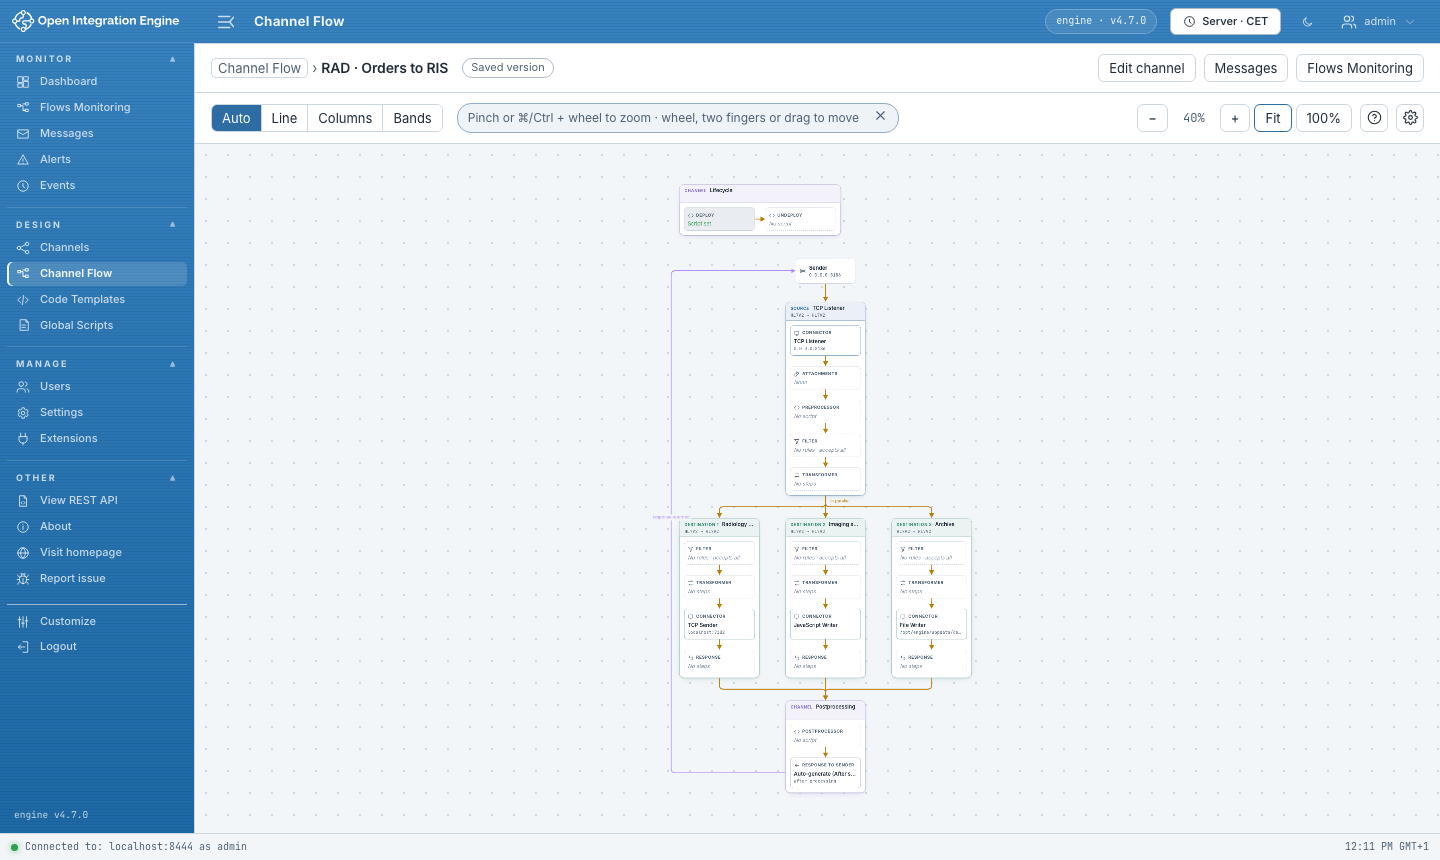
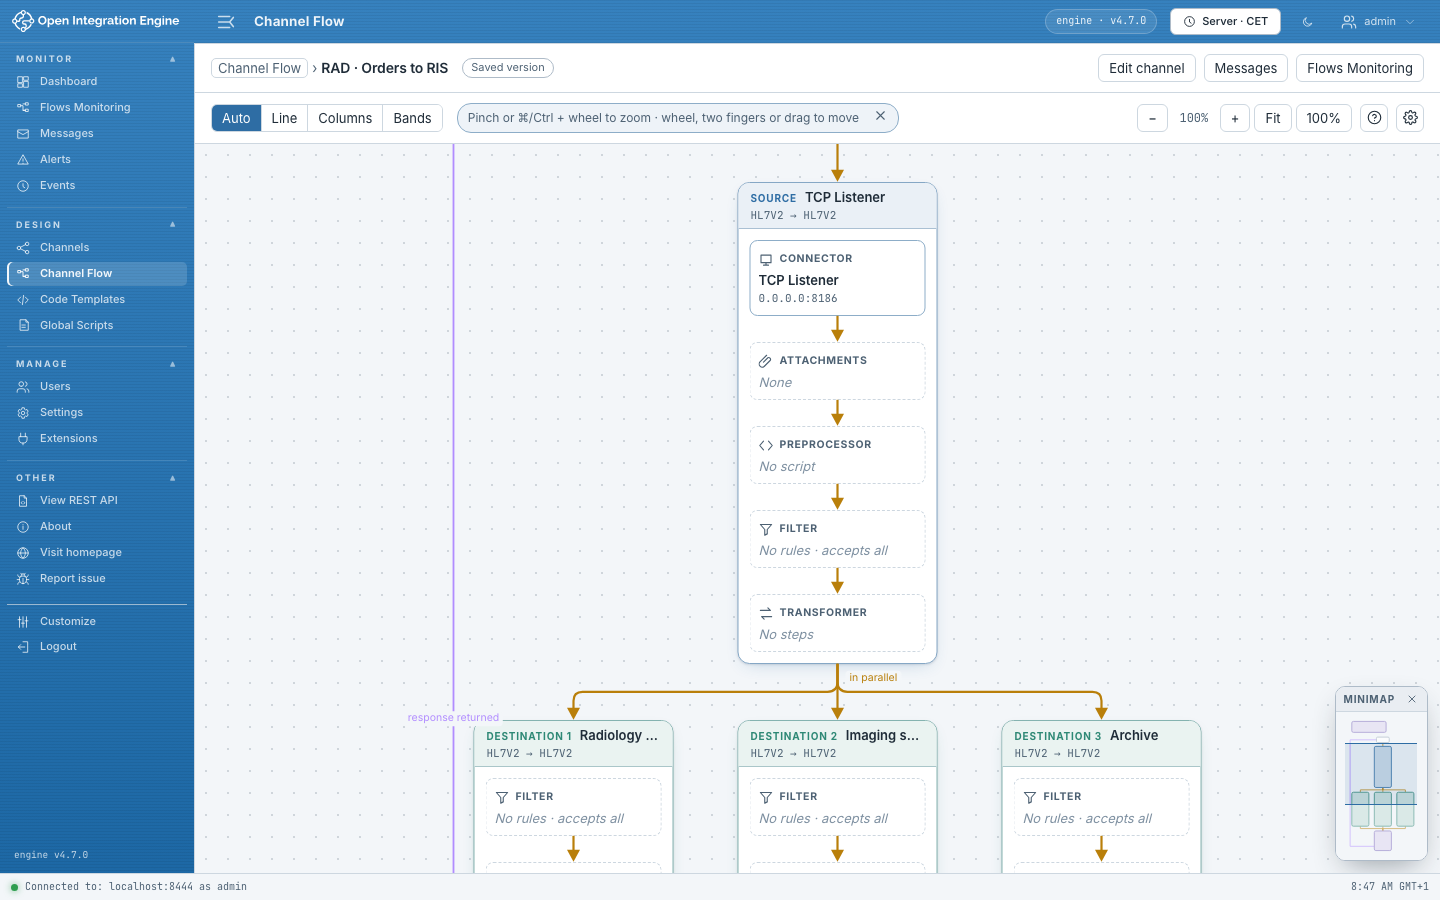
docs: add in-development status, sync docs, and refresh screenshots

diff --git a/doc/plan.md b/doc/plan.md
@@ -18,7 +18,7 @@ Cible : OIE 4.7.0, Web Support 1.3.0 (Web Admin 1.3.0, API plugin 4.10), RBAC 1.
 | Phase | État |
 |---|---|
 | 0. Socle et vérifications | Fait : build esbuild, ZIP sans Java accepté (WS-01), menus et droits vérifiés |
-| 1. Démo | Fait : initialisation REST `oie-init/` (12 canaux en 4 groupes), trafic continu automatique `traffic`, `examples/send.sh` |
+| 1. Démo | Fait : initialisation REST `oie-init/` (12 canaux en 4 groupes), générateur continu automatique `message-gun`, `examples/send.sh` |
 | 2. Fondations partagées | Fait : `host/`, i18n, jetons, contrôles, réglages, état de session |
 | 3. Flows Monitoring | Fait, vérifié dans la démo avec les comptes RBAC ; ajouts : liens entre canaux (*Links*), tags colorés, démarrer / pause / arrêt des canaux et connecteurs |
 | 4. Channel Flow, schéma | Fait : trois vues calculées, sélecteur avec groupes et tags, action *Show flow* |
@@ -123,11 +123,11 @@ oie-flow-ui-plugin/
       session.js            état des vues pour la session (sessionStorage)
       styles.js             injection unique des feuilles
     i18n/
-      index.js              t(key, params), pluriels, nombres, heures
-      locales/en.js         catalogue anglais (référence)
+      index.js              t(key, params), pluriels, nombres, heures, préférence de langue
+      locales/en.js, fr.js  catalogues anglais (référence) et français
     shared/
       model/                xstream.js, chains.js, stats.js, endpoint.js, tags.js
-      ui/                   Button, Icon, Popover (+ place.js), Hint, EmptyState, Tag, useSettings
+      ui/                   Button, Icon, Popover (+ place.js), Hint, EmptyState, Tag, useLocale, useSettings
       styles/               tokens.css (couleurs), controls.css (contrôles communs)
     settings/
       SettingsButton.jsx    engrenage de chaque écran et panneau Manage › Settings › Flow UI
@@ -192,13 +192,16 @@ oie-flow-ui-plugin/
 
 ### 3.4 Internationalisation
 
-- UI en anglais ; toute chaîne visible passe par `t("flows.counter.errored")`.
-  Clés hiérarchiques par écran, paramètres nommés (`{count}`, `{name}`), pluriels par
-  `Intl.PluralRules`, nombres et heures par `Intl`.
-- Langue : préférence du plugin si définie, sinon `navigator.languages`, sinon `en`.
-  Repli clé par clé sur l'anglais.
-- Tests : catalogue complet par rapport à `en`, clés inutilisées, paramètres cohérents.
-  Ajouter une langue = ajouter `locales/<code>.js` (documenté dans `doc/i18n.md`).
+- UI en anglais et en français ; toute chaîne visible passe par
+  `t("flows.counter.errored")`. Clés hiérarchiques par écran, paramètres nommés
+  (`{count}`, `{name}`), pluriels par `Intl.PluralRules`, nombres et heures par `Intl`.
+- Langue : choix utilisateur dans **Manage › Settings › Flow UI** (*Interface ›
+  Language*) ou depuis le bouton ⚙ (*Browser language*, *English*, *Français*),
+  mémorisé dans le navigateur (`localStorage`) et appliqué aussitôt ; à défaut
+  (`auto`), `navigator.languages`, sinon `en`. Repli clé par clé sur l'anglais.
+- Tests : parité des clés et paramètres entre catalogues par rapport à `en`, clés
+  utilisées présentes dans `en`, persistance `localStorage`. Ajouter une langue =
+  ajouter `locales/<code>.js` (documenté dans `doc/i18n.md`).
 
 ### 3.5 Droits (RBAC)
 
@@ -392,7 +395,7 @@ puis rejouer les messages initiaux (`messages.txt`).
 | `oie-db` | PostgreSQL 18 (`postgres:18.3-alpine`) |
 | `oie-app` | OIE 4.7.0 + Web Support 1.3.0 + RBAC 1.3.0 (archives vérifiées par SHA-256) + Flow UI construit dans un étage Node ; `SERVER_ID` fixe |
 | `oie-init` | Image curl : exécute `oie-init/init-channels.sh` une fois `oie-app` sain |
-| `traffic` | Démarre automatiquement dès la fin de `oie-init` : image curl, boucle pondérée (`examples/traffic.sh`, 0,2 s par défaut) qui alimente les compteurs |
+| `message-gun` | Démarre automatiquement dès la fin de `oie-init` : image curl, boucle pondérée (`examples/message-gun.sh`, 0,2 s par défaut) qui alimente les compteurs |
 
 Port d'administration par défaut **8444** et ports d'exemple **8181-8199** (le mapper
 utilise 8443 et 8081-8099), tous réglables dans `.env`. Projet compose
@@ -415,7 +418,7 @@ demo/
       messages.txt          plan des messages initiaux et du trafic continu
       messages/             messages joués ({{n}} : numéro, {{ts}} : horodatage)
   examples/
-    traffic.sh              trafic continu automatique après oie-init
+    message-gun.sh          envoi continu automatique après oie-init
     send.sh                 envoie un message vers un listener (MLLP par nc, HTTP par curl)
     demo.http               appels REST commentés
 ```
@@ -494,7 +497,7 @@ Chaque phase se termine par une vérification visuelle dans la démo.
 | Phase | Contenu | Terminé quand |
 |---|---|---|
 | **0. Socle et vérifications** | Squelette du dépôt, build esbuild, ZIP sans Java, injection CSS, i18n minimal, deux vues « hello » (Monitor et Design) | Le ZIP s'installe dans OIE 4.7.0 ; les vues apparaissent et respectent RBAC ; les points marqués « à confirmer » sont tranchés (§1) |
-| **1. Démo** | compose, Dockerfile, initialisation REST `oie-init/`, trafic automatique `traffic`, `examples/send.sh` | `docker compose up` donne des compteurs variés et les cinq comptes ; `oie-init` réinitialise l'état |
+| **1. Démo** | compose, Dockerfile, initialisation REST `oie-init/`, générateur automatique `message-gun`, `examples/send.sh` | `docker compose up` donne des compteurs variés et les cinq comptes ; `oie-init` réinitialise l'état |
 | **2. Fondations partagées** | Jetons et contrôles UI, `host/`, `model/chains`, `stats`, permissions, aides (`HelpPopover`, `Tooltip`) | Composants communs testés et utilisés par les deux écrans |
 | **3. Flows Monitoring** | Vue complète (§4) | Parité avec Flows du mapper, sans hack, liens Flow et droits |
 | **4. Channel Flow — schéma** | Modèle, mise en page calculée des trois vues, rendu, vue Design, sélecteur, action Channels | Les canaux d'exemple se lisent correctement dans les trois vues |
@@ -548,6 +551,7 @@ existent.
 | 15 | Forme du chargement | Fichiers XML/texte versionnés dans `demo/oie-init/data/` et importés par API REST (`oie-init/init-channels.sh`) au démarrage, remplaçant l'ancien dump `seed/` + `pg_dump` (§7.1, §7.3) |
 | 16 | Scénario de démo | Plateforme d'intégration hospitalière : 4 groupes, 12 canaux prioritaires avec étapes variées, systèmes externes simulés (§7.4) |
 | 17 | Comptes de démo | `admin`, `lab-viewer`, `ops`, `integrator`, `auditor` (§7.5) |
+| 18 | Choix de la langue | Catalogues `en` et `fr` embarqués ; sélecteur dans **Manage › Settings › Flow UI** et le bouton ⚙ (`auto`, `en`, `fr`), mémorisé dans le navigateur (`localStorage`) sans modifier les réglages serveur (§3.4) |
 
 Le chargement REST exécute les vrais déploiements et envois de messages dans OIE :
 le moteur crée lui-même ses tables de messages et les compteurs pointent vers des

diff --git a/doc/i18n.md b/doc/i18n.md
@@ -1,6 +1,11 @@
 # Traductions
 
-L'interface est en anglais. Tout texte visible passe par `t()` :
+L'interface est fournie en anglais (`en`) et en français (`fr`). Par défaut, elle
+suit les préférences du navigateur (`Browser language`), et l'utilisateur peut
+choisir explicitement la langue dans **Manage › Settings › Flow UI** (*Interface ›
+Language*) ou depuis le bouton **⚙** d'un écran. Ce choix est mémorisé dans ce
+navigateur (`localStorage`), s'applique immédiatement et n'entre pas dans les
+réglages serveur. Tout texte visible passe par `t()` :
 
 ```js
 import { t } from "../i18n/index.js";
@@ -17,7 +22,8 @@ t("flows.group.channels", { count: 3 });     // "3 channels"
   selon la langue (`1,200` ou `1 200`).
 - Une entrée à plusieurs formes (`{ one: "...", other: "..." }`) est choisie avec
   le paramètre `count`, selon les règles de pluriel de la langue (`Intl.PluralRules`).
-- La langue est la première du navigateur qui a un catalogue, sinon l'anglais.
+- La langue suit la préférence locale du navigateur si elle est fixée (`en`, `fr`),
+  sinon la première langue du navigateur qui a un catalogue (`auto`), sinon l'anglais.
   Une clé absente d'une traduction retombe sur l'anglais.
 
 Web Admin n'a pas de mécanisme de traduction (WA-07) : quand il en aura un, Flow UI
@@ -25,20 +31,24 @@ suivra la langue de l'utilisateur.
 
 ## Ajouter une langue
 
-1. Copier `src/i18n/locales/en.js` en `fr.js` (code BCP 47 de la langue) et
-   traduire les valeurs, pas les clés. Les clés non traduites peuvent être
-   supprimées : elles retombent sur l'anglais.
+1. Copier `src/i18n/locales/en.js` (par exemple vers `de.js`, code BCP 47 de la
+   langue) et traduire les valeurs, sans changer les clés. Un test unitaire
+   vérifie que chaque catalogue possède les mêmes clés et paramètres que `en.js`.
 2. Déclarer le catalogue dans `src/i18n/index.js` :
 
    ```js
-   import fr from "./locales/fr.js";
-   const CATALOGS = { en, fr };
+   import de from "./locales/de.js";
+   const CATALOGS = { en, fr, de };
    ```
 
-3. Les formes de pluriel suivent la langue : le français utilise `one` et `other`,
+3. Ajouter l'entrée `settings.language.de` (libellé natif, par exemple `"Deutsch"`)
+   dans `en.js`, `fr.js` et le nouveau catalogue pour qu'elle apparaisse dans le
+   sélecteur de langue.
+4. Les formes de pluriel suivent la langue : le français utilise `one` et `other`,
    d'autres langues `few`, `many`…
-4. `npm test`, `npm run build`, puis vérifier les deux écrans dans la démo : les
-   textes plus longs doivent rester lisibles (titres tronqués avec info-bulle).
+5. `npm test`, `npm run check`, `npm run build`, puis vérifier les deux écrans dans
+   la démo : les textes plus longs doivent rester lisibles (titres tronqués avec
+   info-bulle).
 
 Les noms de statuts (`Received`, `Errored`…) reprennent ceux de Web Admin : les
 garder cohérents avec sa traduction, le jour où elle existera.

diff --git a/README.md b/README.md
@@ -3,6 +3,8 @@
 A plugin for the [Open Integration Engine](https://github.com/OpenIntegrationEngine/engine)
 web administrator that shows how messages move through channels.
 
+> **Status: In development (pre-1.0).**
+>
 > **Pre-1.0 note:** Because Web Admin's plugin API still lacks a few interaction
 > hooks, Flow UI currently relies on minor DOM workarounds (documented in
 > [platform limits](doc/platform-limits.md)). Pull requests to the upstream
@@ -34,7 +36,7 @@ The demo is the integration platform of a hospital: 12 channels in 4 groups,
 messages already processed, a queue and errors.
 
 ```sh
-docker compose stop traffic              # pause continuous message traffic
+docker compose stop message-gun          # pause continuous message traffic
 docker compose up -d oie-init            # restore initial configuration and states
 ```
 

diff --git a/doc/platform-limits.md b/doc/platform-limits.md
@@ -184,7 +184,10 @@ entry remains, with the version that fixes it.
 - **Finding.** Web Admin is entirely in English, with no catalog or language setting.
 - **Evidence.** No trace of i18n in the main bundle (only `Intl` is used for formatting).
 - **Impact.** Each plugin picks its language alone; risk of a mixed-language UI.
-- **Workaround.** Plugin-owned i18n (`src/i18n/`), browser language, English fallback.
+- **Workaround.** Plugin-owned i18n (`src/i18n/`) with bundled English and French
+  catalogs, browser language auto-detection, English key fallback, and an
+  in-browser language selector (`auto` / `en` / `fr`) in **Settings › Flow UI**
+  and the toolbar gear menu.
 - **Upstream request.** User language and loading of plugin catalogs.
 
 ### WA-08

diff --git a/doc/user-guide.md b/doc/user-guide.md
@@ -136,6 +136,7 @@ préférences locales en surcharge des réglages serveur (appliquées aussitôt)
 |---|---|
 | Flows Monitoring | Groupes ouverts par défaut (tous, le premier, aucun) ; rafraîchissement des compteurs |
 | Channel Flow | Vue par défaut ; étapes affichées par tuile (3, 5, 8 ou toutes, puis « +N more ») ; mini-carte (quand nécessaire ou désactivée) |
+| Interface *(ce navigateur)* | Langue (*Browser language*, *English*, *Français*) : appliquée aussitôt dans le navigateur, exclue des réglages serveur ; également accessible lorsque les réglages serveur ne sont pas lisibles |
 
 Un lien permet de réafficher les indices masqués.
 
